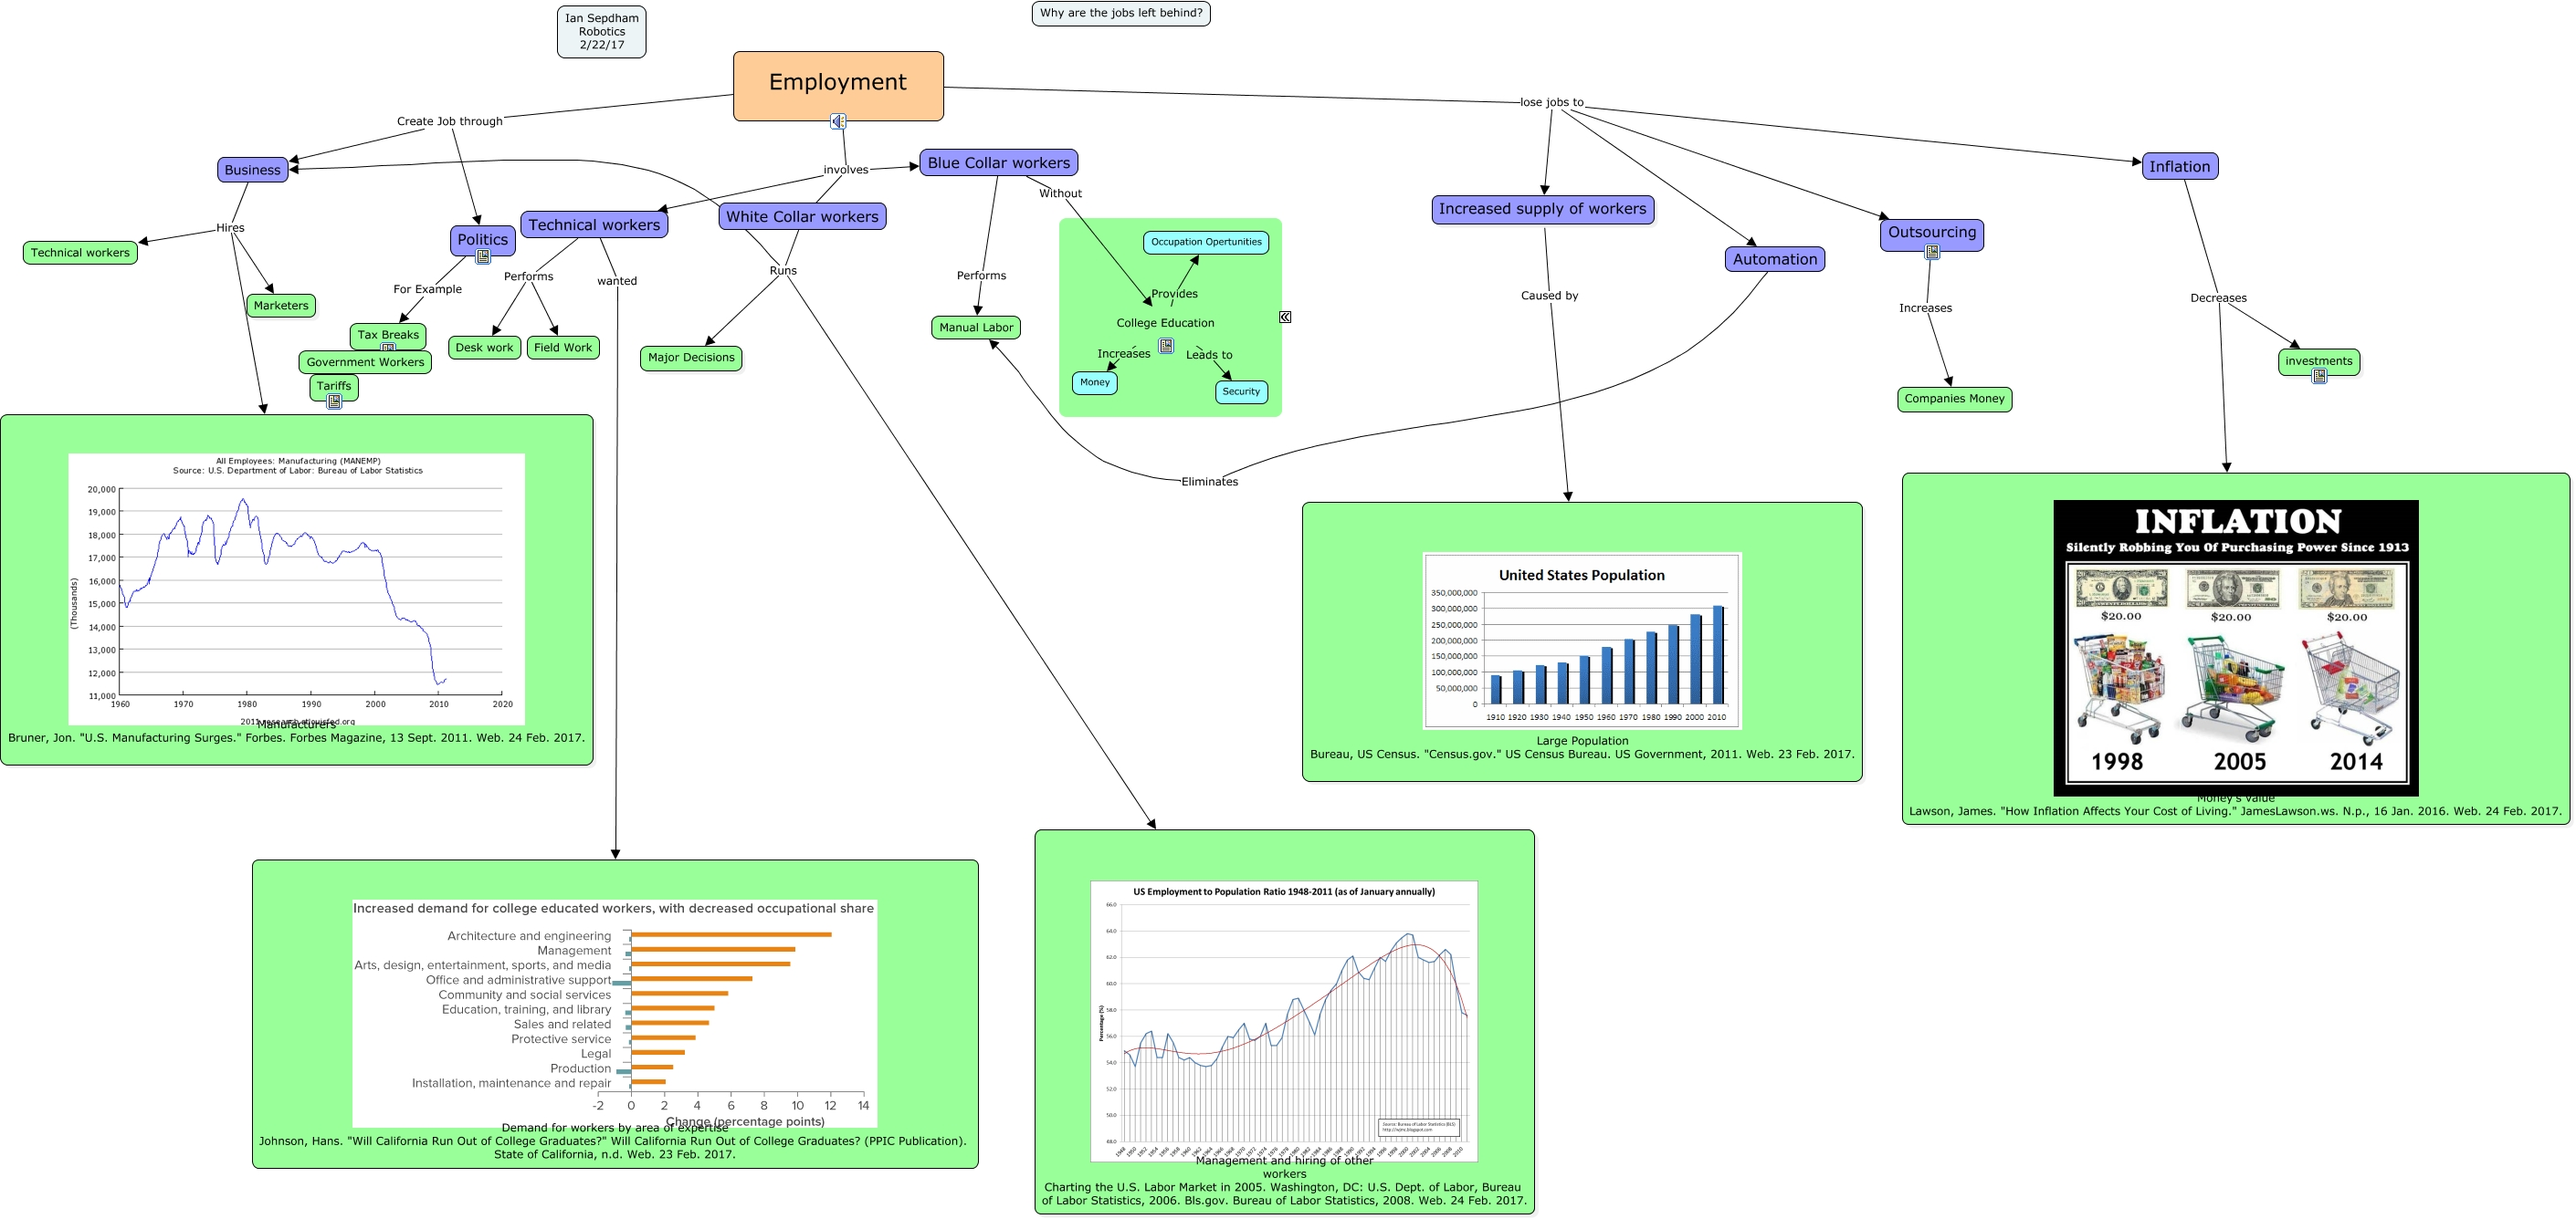
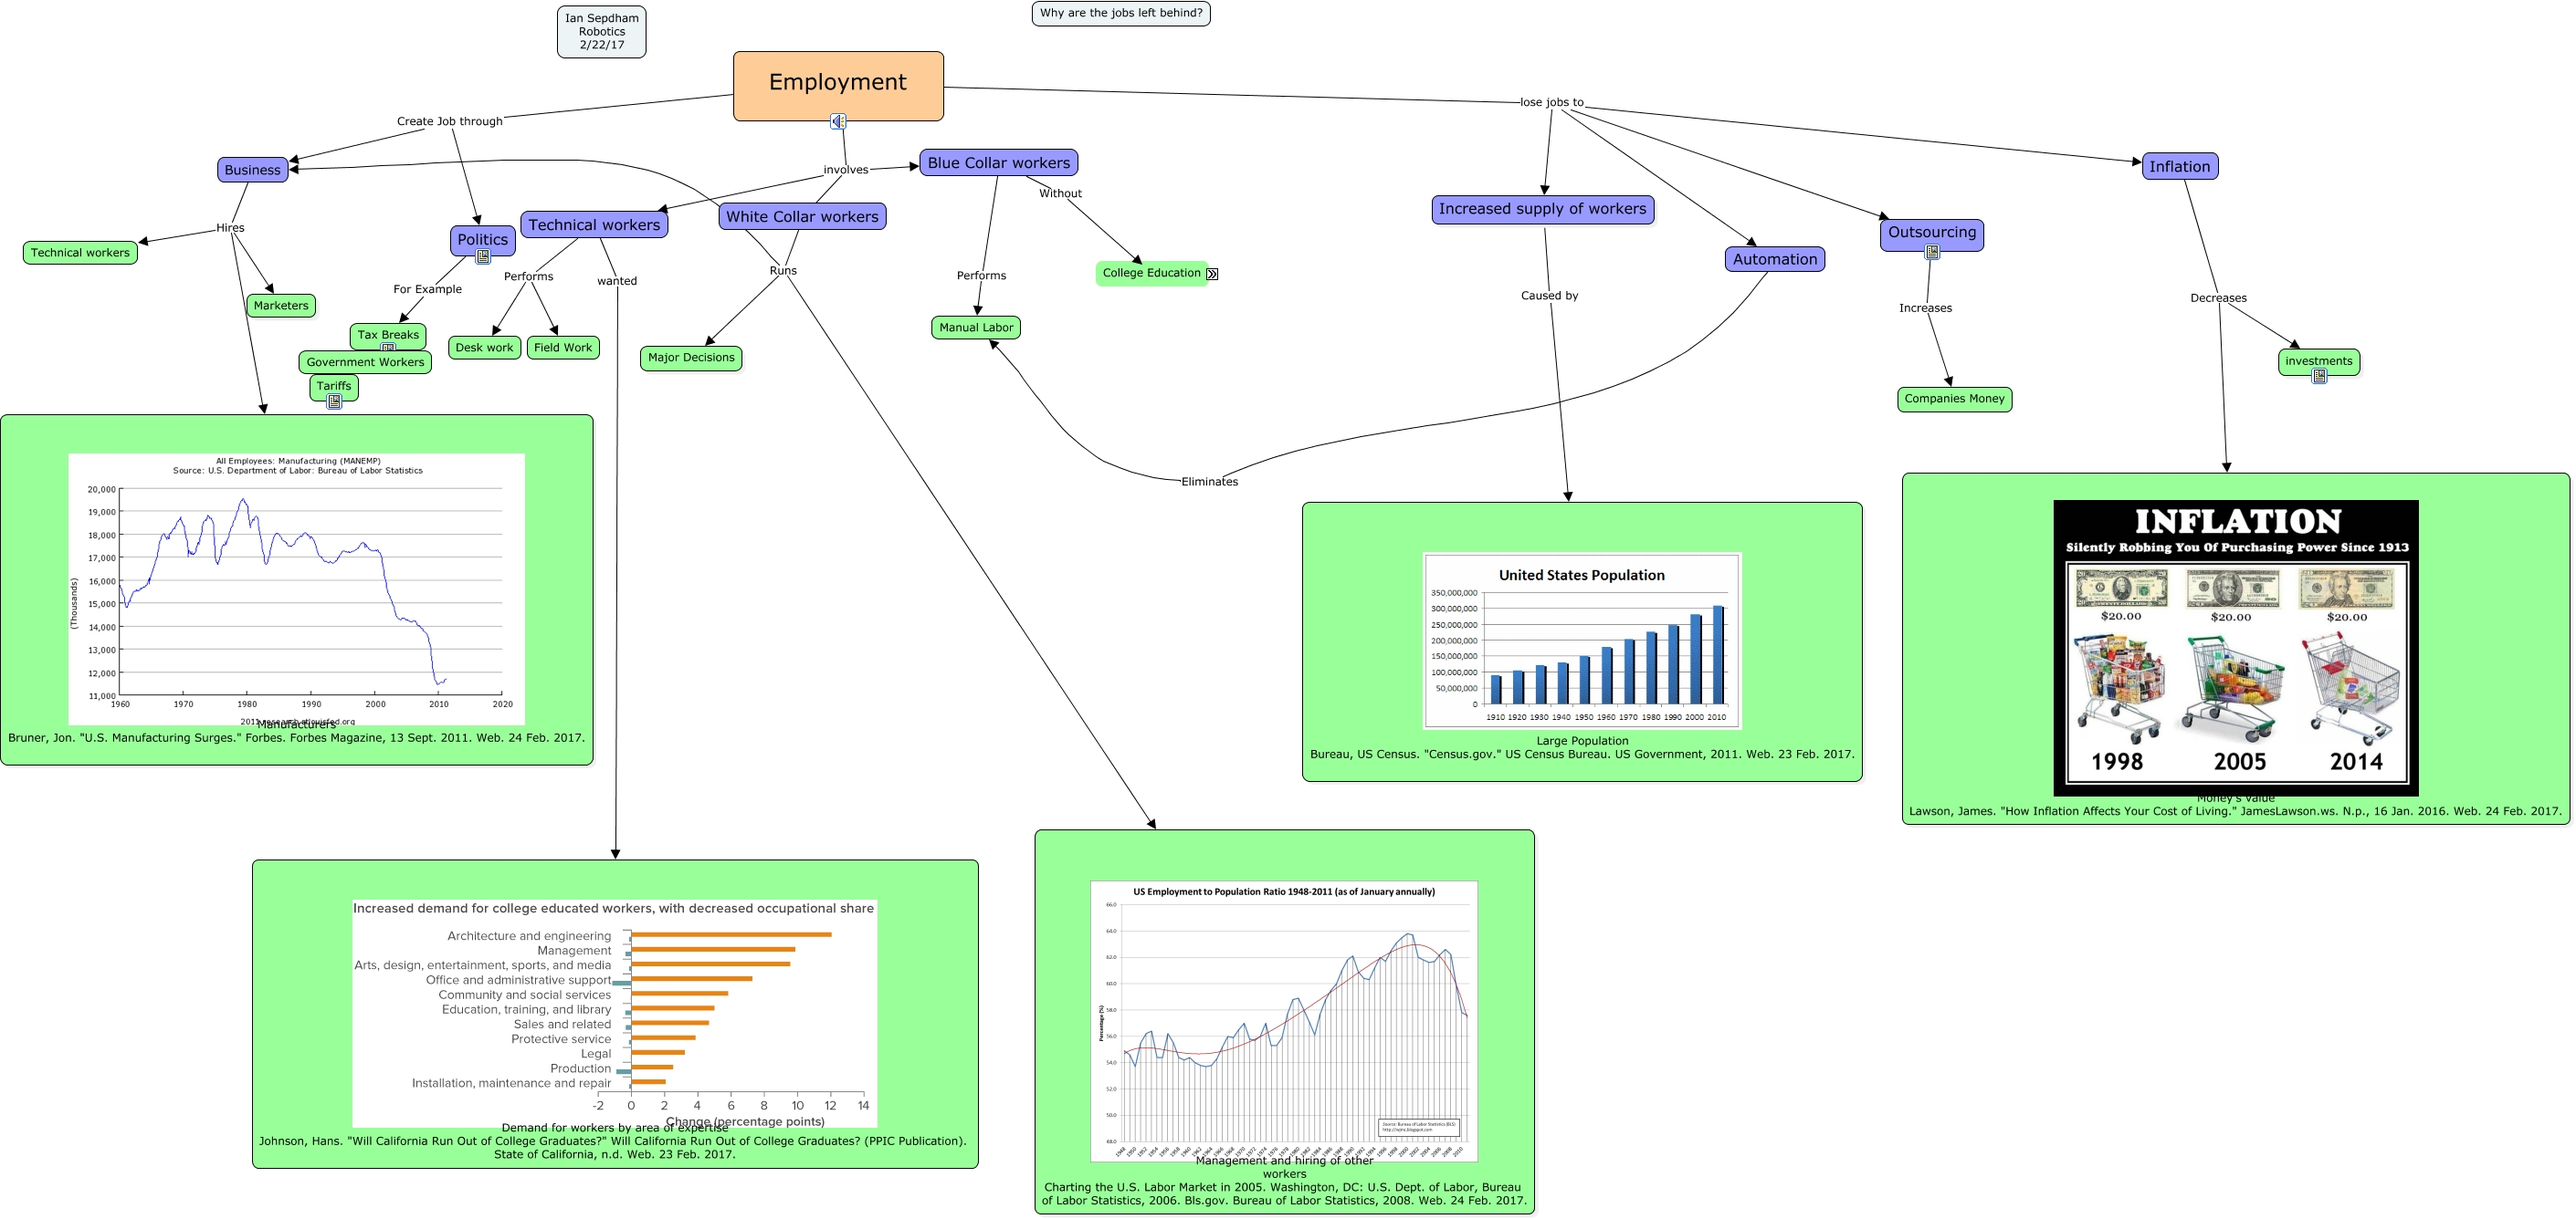
Add files via upload

Changed region(s): [[0.4055, 0.1534, 0.4991, 0.3683]]

diff --git a/Emp/Employment.html b/Emp/Employment.html
@@ -2,8 +2,8 @@
 <HEAD>
   <TITLE>Employment.html</TITLE>
   <meta NAME = "GENERATOR"          CONTENT = "IHMC CmapTools vr. 4.12 ">
-  <meta NAME = "KEYWORDS"           CONTENT = "Ian Sepdham, Concept Map, cmap, CmapTools, IHMC, Employment,  Employment,  Desk work,  Manufacturers Bruner, Jon. "U.S. Manufacturing Surges." Forbes. Forbes Magazine, 13 Sept. 2011. Web. 24 Feb. 2017.,  Tariffs,  ????,  Politics,  White Collar workers,  Demand for workers by area of expertise Johnson, Hans. "Will California Run Out of College Graduates?" Will California Run Out of College Graduates? (PPIC Publication). State of California, n.d. Web. 23 Feb. 2017.,  Management and hiring of other workers Charting the U.S. Labor Market in 2005. Washington, DC: U.S. Dept. of Labor, Bureau of Labor Statistics, 2006. Bls.gov. Bureau of Labor Statistics, 2008. Web. 24 Feb. 2017.,  Money's value Lawson, James. "How Inflation Affects Your Cost of Living." JamesLawson.ws. N.p., 16 Jan. 2016. Web. 24 Feb. 2017.,  Large Population Bureau, US Census. "Census.gov." US Census Bureau. US Government, 2011. Web. 23 Feb. 2017.,  Automation,  Manual Labor,  Occupation Opertunities,  College Education,  Business,  Security,  investments,  Tax Breaks,  Why are the jobs left behind?">
-  <meta NAME = "DESCRIPTION"        CONTENT = "This Concept Map, created with IHMC CmapTools, has information related to: Employment, Tax Breaks ???? Government Workers, White Collar workers Runs Business, Technical workers Performs Desk work, White Collar workers Runs Major Decisions, Outsourcing Increases Companies Money, College Education Increases Money, Technical workers wanted Demand for workers by area of expertise Johnson, Hans. "Will California Run Out of College Graduates?" Will California Run Out of College Graduates? (PPIC Publication). State of California, n.d. Web. 23 Feb. 2017., Blue Collar workers Without College Education, College Education Leads to Security, Employment involves Blue Collar workers, Technical workers Performs Field Work, White Collar workers Runs Management and hiring of other workers Charting the U.S. Labor Market in 2005. Washington, DC: U.S. Dept. of Labor, Bureau of Labor Statistics, 2006. Bls.gov. Bureau of Labor Statistics, 2008. Web. 24 Feb. 2017., Employment lose jobs to Automation, Blue Collar workers Performs Manual Labor, Employment involves Technical workers, Politics For Example Tax Breaks, Business Hires Marketers, Inflation Decreases investments, Automation Eliminates Manual Labor, Business Hires Manufacturers Bruner, Jon. "U.S. Manufacturing Surges." Forbes. Forbes Magazine, 13 Sept. 2011. Web. 24 Feb. 2017.">
+  <meta NAME = "KEYWORDS"           CONTENT = "Ian Sepdham, Concept Map, cmap, CmapTools, IHMC, Employment,  Employment,  Why are the jobs left behind?,  Blue Collar workers,  Outsourcing,  Demand for workers by area of expertise Johnson, Hans. "Will California Run Out of College Graduates?" Will California Run Out of College Graduates? (PPIC Publication). State of California, n.d. Web. 23 Feb. 2017.,  Ian Sepdham Robotics 2/22/17,  Politics,  College Education,  College Education,  Tariffs,  Tax Breaks,  White Collar workers,  Management and hiring of other workers Charting the U.S. Labor Market in 2005. Washington, DC: U.S. Dept. of Labor, Bureau of Labor Statistics, 2006. Bls.gov. Bureau of Labor Statistics, 2008. Web. 24 Feb. 2017.,  Government Workers,  Inflation,  Money,  Money's value Lawson, James. "How Inflation Affects Your Cost of Living." JamesLawson.ws. N.p., 16 Jan. 2016. Web. 24 Feb. 2017.,  Major Decisions,  Increased supply of workers,  Manufacturers Bruner, Jon. "U.S. Manufacturing Surges." Forbes. Forbes Magazine, 13 Sept. 2011. Web. 24 Feb. 2017.">
+  <meta NAME = "DESCRIPTION"        CONTENT = "This Concept Map, created with IHMC CmapTools, has information related to: Employment, Employment Create Job through Business, Employment lose jobs to Increased supply of workers, Employment Create Job through Politics, Inflation Decreases investments, College Education Increases Money, Business Hires Technical workers, College Education Leads to Security, Tax Breaks ???? Government Workers, Business Hires Marketers, Employment lose jobs to Outsourcing, Inflation Decreases Money's value Lawson, James. "How Inflation Affects Your Cost of Living." JamesLawson.ws. N.p., 16 Jan. 2016. Web. 24 Feb. 2017., Politics For Example Tax Breaks, Employment involves White Collar workers, Outsourcing Increases Companies Money, Blue Collar workers Without College Education, White Collar workers Runs Business, Blue Collar workers Performs Manual Labor, Technical workers Performs Field Work, Automation Eliminates Manual Labor, Employment lose jobs to Automation">
   <meta NAME = "AUTHOR"             CONTENT = "IHMC CmapTools">
   <meta HTTP-EQUIV = "Content-Type" CONTENT = "text/html; charset = UTF-8">
   <script LANGUAGE="JavaScript1.2">
@@ -205,7 +205,7 @@
       </td>
     </tr>
   </table>
-This Concept Map, created with IHMC CmapTools, has information related to: Employment, Tax Breaks ???? Government Workers, White Collar workers Runs Business, Technical workers Performs Desk work, White Collar workers Runs Major Decisions, Outsourcing Increases Companies Money, College Education Increases Money, Technical workers wanted Demand for workers by area of expertise Johnson, Hans. "Will California Run Out of College Graduates?" Will California Run Out of College Graduates? (PPIC Publication). State of California, n.d. Web. 23 Feb. 2017., Blue Collar workers Without College Education, College Education Leads to Security, Employment involves Blue Collar workers, Technical workers Performs Field Work, White Collar workers Runs Management and hiring of other workers Charting the U.S. Labor Market in 2005. Washington, DC: U.S. Dept. of Labor, Bureau of Labor Statistics, 2006. Bls.gov. Bureau of Labor Statistics, 2008. Web. 24 Feb. 2017., Employment lose jobs to Automation, Blue Collar workers Performs Manual Labor, Employment involves Technical workers, Politics For Example Tax Breaks, Business Hires Marketers, Inflation Decreases investments, Automation Eliminates Manual Labor, Business Hires Manufacturers Bruner, Jon. "U.S. Manufacturing Surges." Forbes. Forbes Magazine, 13 Sept. 2011. Web. 24 Feb. 2017.
+This Concept Map, created with IHMC CmapTools, has information related to: Employment, Employment Create Job through Business, Employment lose jobs to Increased supply of workers, Employment Create Job through Politics, Inflation Decreases investments, College Education Increases Money, Business Hires Technical workers, College Education Leads to Security, Tax Breaks ???? Government Workers, Business Hires Marketers, Employment lose jobs to Outsourcing, Inflation Decreases Money's value Lawson, James. "How Inflation Affects Your Cost of Living." JamesLawson.ws. N.p., 16 Jan. 2016. Web. 24 Feb. 2017., Politics For Example Tax Breaks, Employment involves White Collar workers, Outsourcing Increases Companies Money, Blue Collar workers Without College Education, White Collar workers Runs Business, Blue Collar workers Performs Manual Labor, Technical workers Performs Field Work, Automation Eliminates Manual Labor, Employment lose jobs to Automation
 
 </noscript>
 
@@ -215,9 +215,9 @@ This Concept Map, created with IHMC CmapTools, has information related to: Emplo
         onClick="popUpEvt(event,'1R2C9JDRSI1WGCDKFIDWIaudio'); return false;"
         coords="909,124,927,142">
   <area shape="rect"
-        href="1R2GCMWK9IVMSL6TI7R8ItextIhtml"
-        onClick="popUpEvt(event,'1R2GCMWK9IVMSL6TI7R8ItextIhtml'); return false;"
-        coords="357,431,375,449">
+        href="1R2CCZTJ3I149RF69I2HZItextIhtml"
+        onClick="popUpEvt(event,'1R2CCZTJ3I149RF69I2HZItextIhtml'); return false;"
+        coords="2107,267,2125,285">
   <area shape="rect"
         href="1R2CCK184INM0098I285ItextIhtml"
         onClick="popUpEvt(event,'1R2CCK184INM0098I285ItextIhtml'); return false;"
@@ -225,19 +225,19 @@ This Concept Map, created with IHMC CmapTools, has information related to: Emplo
   <area shape="rect"
         href="1R2G9JMCGI1B6J7V8I3TDItextIhtml"
         onClick="popUpEvt(event,'1R2G9JMCGI1B6J7V8I3TDItextIhtml'); return false;"
-        coords="1268,370,1286,388">
+        coords="0,-103,18,-85">
   <area shape="rect"
-        href="1R2K672R6IZR0F8KI4B4ItextIhtml"
-        onClick="popUpEvt(event,'1R2K672R6IZR0F8KI4B4ItextIhtml'); return false;"
-        coords="2531,403,2549,421">
+        href="1R2GCMWK9IVMSL6TI7R8ItextIhtml"
+        onClick="popUpEvt(event,'1R2GCMWK9IVMSL6TI7R8ItextIhtml'); return false;"
+        coords="357,431,375,449">
   <area shape="rect"
         href="1R2G55Q5NI4NZ0S9IN4ItextIhtml"
         onClick="popUpEvt(event,'1R2G55Q5NI4NZ0S9IN4ItextIhtml'); return false;"
         coords="416,375,434,393">
   <area shape="rect"
-        href="1R2CCZTJ3I149RF69I2HZItextIhtml"
-        onClick="popUpEvt(event,'1R2CCZTJ3I149RF69I2HZItextIhtml'); return false;"
-        coords="2107,267,2125,285">
+        href="1R2K672R6IZR0F8KI4B4ItextIhtml"
+        onClick="popUpEvt(event,'1R2K672R6IZR0F8KI4B4ItextIhtml'); return false;"
+        coords="2531,403,2549,421">
 </map>
 
 <center>
@@ -286,19 +286,17 @@ This Concept Map, created with IHMC CmapTools, has information related to: Emplo
   <table border=1 cellpadding=1 cellspacing=0 bgcolor="#dddddd">
     <tr>
       <td nowrap><font face="Geneva, Arial" size=2>
-      <a href="Unemployment.mp3 "TITLE="">
-      Unemployment.mp3
-      </a>
+      Unemployment: Not Found
       </td>
     </tr>
   </table>
 </div>
-<div id="1R2GCMWK9IVMSL6TI7R8ItextIhtml" style="POSITION: absolute; Z-INDEX: 20; VISIBILITY: hidden; left: 0; top: 0;">
+<div id="1R2CCZTJ3I149RF69I2HZItextIhtml" style="POSITION: absolute; Z-INDEX: 20; VISIBILITY: hidden; left: 0; top: 0;">
   <table border=1 cellpadding=1 cellspacing=0 bgcolor="#dddddd">
     <tr>
       <td nowrap><font face="Geneva, Arial" size=2>
-      <a href="http://www.economicshelp.org/blog/glossary/tariffs/ "TITLE="">
-      Pros and Cons of Tariffs
+      <a href="http://www.economist.com/node/12323287 "TITLE="">
+      Pros & Cons of Outsourcing
       </a>
       </td>
     </tr>
@@ -326,12 +324,12 @@ This Concept Map, created with IHMC CmapTools, has information related to: Emplo
     </tr>
   </table>
 </div>
-<div id="1R2K672R6IZR0F8KI4B4ItextIhtml" style="POSITION: absolute; Z-INDEX: 20; VISIBILITY: hidden; left: 0; top: 0;">
+<div id="1R2GCMWK9IVMSL6TI7R8ItextIhtml" style="POSITION: absolute; Z-INDEX: 20; VISIBILITY: hidden; left: 0; top: 0;">
   <table border=1 cellpadding=1 cellspacing=0 bgcolor="#dddddd">
     <tr>
       <td nowrap><font face="Geneva, Arial" size=2>
-      <a href="http://www.economicshelp.org/blog/3404/economics/does-inflation-cause-unemployment/ "TITLE="">
-      How inflation affects economy
+      <a href="http://www.economicshelp.org/blog/glossary/tariffs/ "TITLE="">
+      Pros and Cons of Tariffs
       </a>
       </td>
     </tr>
@@ -348,14 +346,15 @@ This Concept Map, created with IHMC CmapTools, has information related to: Emplo
     </tr>
   </table>
 </div>
-<div id="1R2CCZTJ3I149RF69I2HZItextIhtml" style="POSITION: absolute; Z-INDEX: 20; VISIBILITY: hidden; left: 0; top: 0;">
+<div id="1R2K672R6IZR0F8KI4B4ItextIhtml" style="POSITION: absolute; Z-INDEX: 20; VISIBILITY: hidden; left: 0; top: 0;">
   <table border=1 cellpadding=1 cellspacing=0 bgcolor="#dddddd">
     <tr>
       <td nowrap><font face="Geneva, Arial" size=2>
-      <a href="http://www.economist.com/node/12323287 "TITLE="">
-      Pros & Cons of Outsourcing
+      <a href="http://www.economicshelp.org/blog/3404/economics/does-inflation-cause-unemployment/ "TITLE="">
+      How inflation affects economy
       </a>
       </td>
     </tr>
   </table>
 </div>
+
